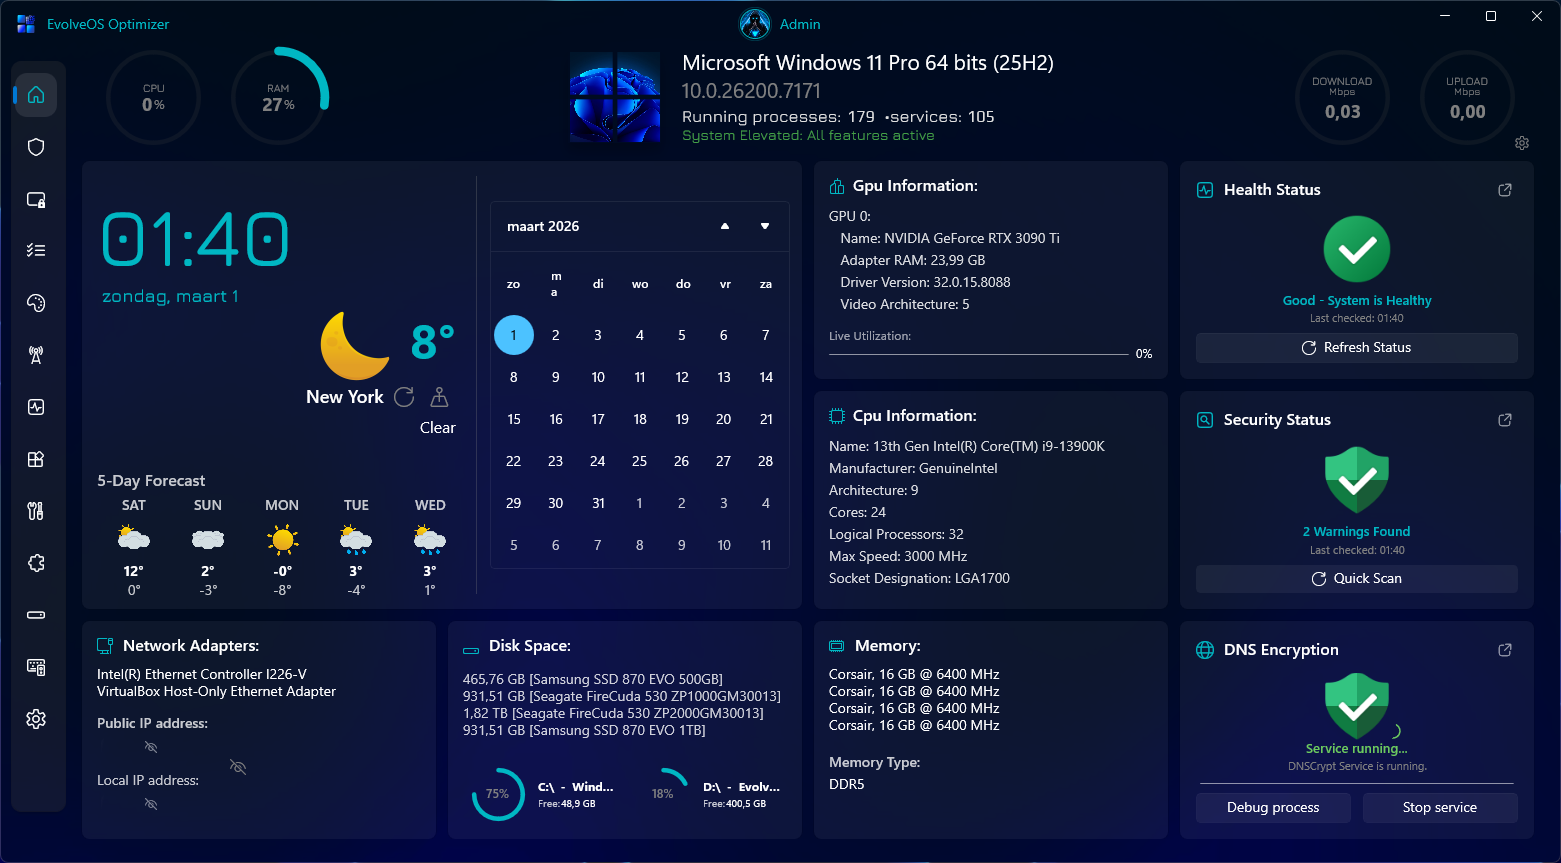
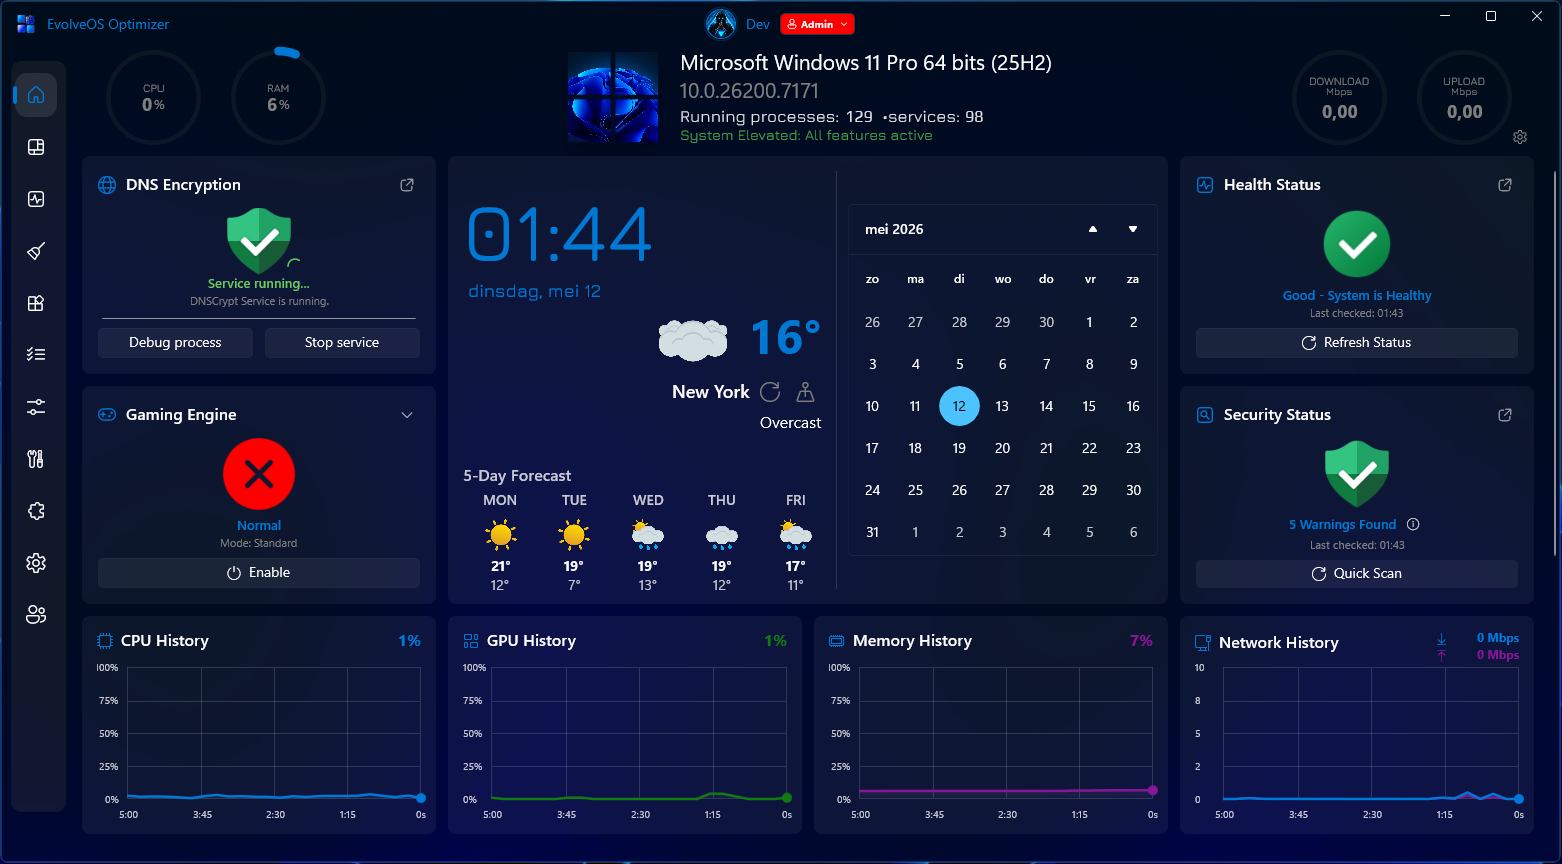
docs (readme): Update key features list and media assets
* Expanded the Key Features section to accurately reflect the latest architectural overhauls, including the Diagnostics Command Center, System Cleaner, and MemoryGuardian.
* Updated application screenshots to showcase the new modern UI components and layouts.
* Replaced the main preview GIF with a high-quality capture of the latest application architecture in action.

diff --git a/README.md b/README.md
@@ -37,24 +37,27 @@ Whether you are actively using it to lock down telemetry and generate custom off
 
 * **Zero-Footprint Architecture:** As a system optimizer, the app itself is engineered to consume as little memory as possible. It utilizes a strict zero-cache navigation model where every page implements a custom `IPurgeable` interface. ViewModels are aggressively disposed, background threads are cancelled, and UI elements are completely purged from memory the moment you navigate away—ensuring perfectly fluent browsing with zero passive memory bloat.
 * **Global Optimization Hotkeys:** Configure custom keyboard shortcuts to instantly flush system memory, clear DNS cache, and wipe temp files at any time. Triggering this directly optimizes the app itself—drastically reducing active memory usage when the dashboard is open, and aggressively trimming its background footprint down to an ultra-light 35-50 MB when hidden in the system tray.
+* **Diagnostics Command Center:** The real-time nerve center of EvolveOS Optimizer. Powered by a custom Neural Analysis Engine, this dynamic dashboard aggregates critical system telemetry, real-time Plug and Play (PnP) hardware events, and network intelligence into a single, thread-safe interface. It runs continuous background tracking even when minimized, filtering out minor system noise to highlight actionable data. It goes beyond passive monitoring by offering contextual administrative elevation, allowing you to instantly execute remediation tasks and system repairs directly from the diagnostic event list.
+* **Live Telemetry & Interactive Graphing:** A high-performance, real-time metrics engine tracking CPU, RAM, Disk I/O, Pagefile, GPU Engine utilization, and dual-band Network speeds. Features a beautifully rendered, interactive history graph with dynamic time scales (ranging from 60 seconds up to 15 minutes) powered by an optimized, 900-point rolling memory buffer.
+* **AI-Driven Stability Scoring & Resource Guardians:** Goes beyond simple error counting. The dashboard features a 24-hour rolling "Stability Score" algorithm that analyzes the severity, frequency, and time-decay of system events and hardware faults, translating raw telemetry into a dynamic, human-readable AI Summary. It includes an active background sentry that monitors RAM and Pagefile saturation, automatically throttling its own UI updates and dispatching localized warnings before a system out-of-memory crash can occur.
+* **Comprehensive Security Dashboard:** Get an instant, accurate mirror of your native Windows Defender states. Actively monitor your Firewall, SmartScreen, BitLocker, Core Isolation, and Account Protection. Includes a custom interactive slider to instantly adjust UAC (User Account Control) consent behaviors, and one-click execution hooks to force malware signature updates or trigger Defender Quick Scans without ever opening the clunky Windows UI.
+* **Neural DNS & Advanced Port Auditor:** Take absolute control over your web routing. Integrated directly into the Command Center, this module features a built-in network security scanner that maps all active TCP/UDP listening sockets to their parent processes, flagging wide-open 0.0.0.0 bindings. Includes a "Deep Hardening" execution hook that violently shuts down vulnerable Windows protocols (like SMBv1/v2/v3 and Port 445) at the registry and firewall level. Features server benchmarking, manual DNS configuration, and strict DoH (DNS over HTTPS) enforcement to prevent ISP snooping and ensure trace-free, encrypted browsing.
+* **Automated Deep Remediation Engine:** Features an arsenal of specialized, one-click auto-fixes for complex Windows issues. Safely unlock and purge corrupted .NET UI caches (requiring Restart Manager integration), repair LUAFV virtualization, stage Secure Boot key enrollments, or instantly reset the Desktop Window Manager (DWM) stack to seamlessly recover from graphical exhaustion and screen flickering without rebooting.
+* **Advanced Memory & Disk Management:** Intelligently flushes the Working Set, System File Cache, Modified Page Lists, and safely clears system caches, DNS, and Windows Update leftovers.
+* **Advanced System Cleaner:** A comprehensive, high-fidelity cleaning engine powered by an OTA-updatable Winapp2.ini database containing over 3,700 definitions. It features fully automated, silent background scheduling and an extensible post-clean orchestrator to automatically execute custom scripts or system maintenance tools (like DISM) immediately after a sweep. Engineered for power users, it supports loading custom databases, includes an intelligent "Conflict Inspector" that leverages the Windows Restart Manager to identify active file locks, and offers deep shell integration to verify target files before deletion. Wrapped in a modern, beautifully localized UI complete with real-time storage heatmaps, a 30-day historical analytics dashboard, and a strict safety-first logic layer that protects sensitive system categories by default.
 * **Automated Background Autopilot:** A silent background engine that tracks system resources. Use custom sliders in the Maintenance menu to set specific memory usage percentages or time intervals (in hours) to trigger fully automated, background memory optimization without lifting a finger.
 * **3-Tier Context-Aware Notification Engine:** A custom-built, queue-based notification manager that intelligently routes alerts based on your exact window state. If the dashboard is active, it delivers beautifully animated, severity-colored in-app banners. If the app is minimized, it triggers a custom, non-intrusive overlay notification. If running silently in the system tray, it seamlessly delegates to Windows Native Adaptive Toasts to keep you informed without interrupting your workflow.
 * **Secure Password Manager & Generator:** Includes a fully offline, AES-encrypted password manager backed by a secure local SQL database. Safely store, categorize, and manage credentials with one-click copy and reveal toggles. Features a standalone, advanced password generator accessible system-wide via custom global hotkeys.
 * **Military-Grade File & Folder Encryptor:** Securely encrypt and decrypt any file, image, executable, or entire directory using AES-256-GCM encryption. Engineered with raw byte processing to prevent binary data corruption and on-the-fly background ZIP compression for folders. Heavy cryptographic tasks are safely offloaded to background threads, triggering a global UI lock and modern visual overlay to prevent interruption.
 * **Custom Windows 11 ISO Builder:** This feature enables the creation of fully debloated, optimized installation media using a sophisticated offline servicing engine. It automates the generation of unattended setups to bypass strict Windows 11 hardware requirements (TPM, CPU, RAM), forces local account creation, and strips away over 50+ bloatware packages like Edge, OneDrive, Copilot and Cortana. By injecting hundreds of custom registry tweaks, removing legacy system components, and pre-tuning over 100 system services directly into the WIM/ESD image, it ensures a high-performance, privacy-focused Windows experience from the very first boot.
 * **Advanced User Authentication:** Features a robust, multi-user accounts management system powered by an auto-installing SQL LocalDB backend. Keep your application access and encrypted vaults entirely private and completely disconnected from the cloud.
-* **Dynamic Hardware Dashboard:** A beautifully animated dashboard featuring real-time history line graphs for CPU, RAM, GPU, and dual-line Network speeds. Fully interactive with smooth scale animations on hover and a customizable global timeframe setting.
 * **Built-in Process Manager:** Includes a dedicated, real-time process manager to monitor memory usage (MB), thread counts, and PIDs. Easily search, sort, and forcefully terminate resource-heavy applications directly within the app.
-* **Security Center Dashboard:** Provides a comprehensive overview of system security, actively monitoring Firewall, SmartScreen, BitLocker, Core Isolation, Account Protection, and UAC levels. Accurately mirrors native Windows Defender states and includes a custom slider to instantly adjust UAC consent behaviors.
-* **One-Click Defender Actions:** Bypass the standard Windows UI to instantly trigger Windows Defender Quick Scans or force malware signature updates directly via PowerShell integration.
 * **Custom Script Engine:** A dedicated dynamic scripts hub allows users to load, refresh, and execute custom scripts individually or in bulk via a multi-select mode.
-* **Advanced Memory & Disk Management:** Intelligently flushes the Working Set, System File Cache, Modified Page Lists, and safely clears system caches, DNS, and Windows Update leftovers.
 * **Ultimate Privacy Shield:** Deep registry tweaks to completely disable Windows telemetry, diagnostic data collection, targeted advertising, and intrusive AI features like Copilot and Recall.
 * **Bloatware Decimation:** Cleanly force-uninstall pre-packaged UWP apps, including deeply embedded software like Microsoft Edge, OneDrive, Cortana, and third-party sponsored bloatware.
 * **Integrated WinGet App Store:** A powerful, fully GUI-driven software center powered by the Windows Package Manager. Easily search, install, update, and uninstall thousands of applications without ever opening a terminal. Features an advanced context menu offering granular control for power users, including interactive visual setups, machine-wide deployments, silent administrative executions, and the ability to safely bypass hash integrity checks.
 * **Advanced Startup & Boot Manager:** Take absolute control over your Windows boot sequence. Easily detect, toggle, or permanently delete auto-start applications from the registry and startup folders. Features an innovative "Cycle-Click" delay system to stagger application launches (15s–60s) preventing CPU "thundering herd" spikes during boot. Includes Authenticode digital signature verification to spot unverified publishers, and supports saving complex configurations into switchable Smart Profiles (Gaming/Work).
 * **Active Startup Monitor:** A silent background sentinel that actively guards your registry and boot folders. It instantly triggers a system-wide alert if a new application stealthily adds itself to your startup sequence without your permission, giving you the immediate power to block it.
-* **Network & DNS Optimizer:** Built-in DNS changer that automatically pings and finds the fastest servers. Features deep DNSCrypt integration to fully encrypt your internet routing, prevent ISP snooping, and enforce strict zero-log policies for completely invisible, trace-free web browsing.
 * **Advanced Service & Defender Control:** Safely suspend unnecessary background services (Xbox, Hyper-V, Maps) to free up resources. Features a powerful, ACL-level bypass to completely disable or restore Windows Defender via NSudo.
 * **System & UI Customization:** Fine-tune Windows Explorer, restore classic context menus, adjust keyboard/mouse input delays, and strip away resource-heavy visual effects.
 * **Group Policy Manager:** Includes a dedicated scanner to detect, review, and easily revert customized or corrupted Windows Group Policies back to default OS behavior.
@@ -62,9 +65,21 @@ Whether you are actively using it to lock down telemetry and generate custom off
 * **Portable Tweak Profiles:** Export your highly customized Windows optimization states—including privacy toggles, services, and network tweaks—into easily deployable JSON files. Instantly import pre-configured profiles to set up new machines in seconds, or share your ultimate gaming/work configurations with the community.
 * **App Preferences Management:** Fully decouple your application settings from your OS tweaks. Safely reset, export, or import your custom UI themes, dashboard layouts, and automated background behavior configurations to keep your EvolveOS experience consistent across different installations.
 * **Gaming Mode (Smart Sniper Optimization):** Instantly shifts your system into high gear with a single click. Intelligently suspends non-essential background tasks, over 80 Windows services, and scheduled tasks while strictly protecting a "Do Not Touch" whitelist of essential gaming companions (Steam, Discord, OBS, Anti-Cheats). Automatically unleashes GPU power states, unlocks CPU core affinity for games, and seamlessly restores your system to its exact original state when disabled.
-* **Automated Background Monitoring:** A silent background engine that tracks RAM and Disk usage, alerting you only when critical thresholds are reached.
-* **System Tray Integration:** Run silently in the background with an ultra-light footprint, featuring a quick-access context menu to instantly jump to key pages or trigger optimizations directly from the taskbar without opening the full UI.
+* **System Tray Integration & Sparklines:** Run silently in the background with an ultra-light footprint. The background telemetry engine continuously generates highly efficient "sparkline" mini-graphs for your CPU, RAM, Disk, and GPU, rendering them directly into your Windows System Tray for instant, zero-click visual feedback. Features a quick-access context menu to instantly jump to key pages or trigger optimizations directly from the taskbar without opening the full UI.
 * **Portable Execution:** Runs as a standalone, unpacked single executable. No bulky installers or registry bloat.
+
+---
+
+### 🧠 Under the Hood: The Neural Analysis Engine (Diagnostics)
+Traditional monitoring tools and task managers are passive—they overwhelm you with raw data, cluttered event logs, and leave you to figure out what is actually wrong. EvolveOS Optimizer flips this paradigm by acting as an active, intelligent sentry.
+Here is how the underlying Neural Analysis Engine processes, protects, and repairs your system in real-time:
+
+* **The Event Log Miner (Signal vs. Noise):** Windows generates thousands of routine telemetry logs every hour. The LiveEventWatcherHelper hooks directly into the OS event pipeline to silently intercept this data, aggressively filtering out normal system noise. It only bubbles up actionable intelligence—like unexpected application crashes, DWM exhaustion, or security bypasses. This data is fed into a 24-hour rolling "Stability Score" algorithm, which the AI Engine translates into a human-readable threat summary.
+* **Predictive MemoryGuardian:** While other tools react to out-of-memory errors, the Neural Engine anticipates them. By querying high-performance WMI counters that perfectly mirror Task Manager, it tracks RAM and Pagefile saturation. If the app detects impending memory exhaustion, it triggers the MemoryGuardian to dynamically clamp the app's footprint down to 150MB (Efficiency Mode) and utilizes native Win32 APIs (EmptyWorkingSet) to force-reclaim unmanaged UI and DirectX memory before a system crash occurs.
+* **Deep Security & Defender Sync:** The engine bypasses the clunky Windows Settings UI to query native Defender APIs directly. It builds an exact, real-time mirror of your system's defensive posture—tracking Firewall states, Core Isolation, BitLocker, LSA Protection, and Smart App Control. If a vulnerability is found, the engine utilizes contextual administrative elevation to instantly deploy automated fixes, allowing you to force signature updates or adjust UAC consent behaviors with a single click.
+* **Active Hardware & Driver Interrogation:** Instead of just reading a static list of devices, the engine utilizes real-time WMI telemetry (Win32_DeviceChangeEvent) to monitor the Plug and Play (PnP) bus. If a driver stack crashes or a component fails, the integrated RemediationEngine intercepts the fault and can securely re-initialize the specific hardware driver stack to restore functionality without requiring a full system reboot.
+* **Neural DNS & Port Auditor:** The engine actively audits your network routing for critical vulnerabilities. It performs high-speed socket mapping to detect dangerously exposed 0.0.0.0 bindings, tracing them back to their exact parent executables. It natively orchestrates DNSCrypt to enforce system-wide DNS-over-HTTPS (DoH) for total ISP blindness, and features a "Deep Hardening" sequence that aggressively shuts down legacy protocols (like SMBv1 and Port 445) at both the registry and firewall levels.
+* **Automated Remediation Execution:** When the engine detects a critical fault, it doesn't just alert you—it offers a weaponized auto-fix. Whether it's unlocking and purging corrupted .NET UI caches using the Windows Restart Manager, repairing LUAFV virtualization, or seamlessly resetting a crashed Desktop Window Manager (DWM) stack, the engine deploys precise registry and service-level repairs to keep you running.
 
 ---
 
@@ -111,12 +126,12 @@ Here is how the underlying `GamingModeHelper` safely pushes your system to its l
 
 ## 📸 Screenshots
 
-| Dashboard | Maintenance | Security |
+| Dashboard | Command Center | Command Center Tools |
 |:---:|:---:|:---:|
-| <img src="https://github.com/EvolveOS-Software/EvolveOS_Optimizer_V3.0/blob/master-net10.0/.github/Screenshots/HomePage.png" alt="EvolveOS Optimizer Dashboard" width="300"/> | <img src="https://github.com/EvolveOS-Software/EvolveOS_Optimizer_V3.0/blob/master-net10.0/.github/Screenshots/MaintenancePage.png" alt="EvolveOS Security Maintenance" width="300"/> | <img src="https://github.com/EvolveOS-Software/EvolveOS_Optimizer_V3.0/blob/master-net10.0/.github/Screenshots/SecurityPage.png" alt="EvolveOS Security Center" width="300"/> |
-| Dns Changer | Settings | Other |
+| <img src="https://github.com/EvolveOS-Software/EvolveOS_Optimizer_V3.0/blob/master-net10.0/.github/Screenshots/HomePage.png" alt="EvolveOS Optimizer Dashboard" width="300"/> | <img src="https://github.com/EvolveOS-Software/EvolveOS_Optimizer_V3.0/blob/master-net10.0/.github/Screenshots/Diagnostics_1.png" alt="EvolveOS Command Center" width="300"/> | <img src="https://github.com/EvolveOS-Software/EvolveOS_Optimizer_V3.0/blob/master-net10.0/.github/Screenshots/Diagnostics_2.png" alt="EvolveOS Command Center Tools" width="300"/> |
+| Process Manager | Startup Apps | System Cleaner |
 |:---:|:---:|:---:|
- <img src="https://github.com/EvolveOS-Software/EvolveOS_Optimizer_V3.0/blob/master-net10.0/.github/Screenshots/DnsPage.png" alt="EvolveOS Optimizer Dashboard" width="300"/> | <img src="https://github.com/EvolveOS-Software/EvolveOS_Optimizer_V3.0/blob/master-net10.0/.github/Screenshots/SettingsPage.png" alt="EvolveOS Security Maintenance" width="300"/> | <img src="https://github.com/EvolveOS-Software/EvolveOS_Optimizer_V3.0/blob/master-net10.0/.github/Screenshots/SettingsPage.png" alt="EvolveOS Security Center" width="300"/> |
+ <img src="https://github.com/EvolveOS-Software/EvolveOS_Optimizer_V3.0/blob/master-net10.0/.github/Screenshots/ProcessManagerPage.png" alt="EvolveOS Process Manager" width="300"/> | <img src="https://github.com/EvolveOS-Software/EvolveOS_Optimizer_V3.0/blob/master-net10.0/.github/Screenshots/StartupManagerPage.png" alt="EvolveOS App Startup Manager" width="300"/> | <img src="https://github.com/EvolveOS-Software/EvolveOS_Optimizer_V3.0/blob/master-net10.0/.github/Screenshots/SystemCleanerPage.png" alt="EvolveOS System Cleaner" width="300"/> |
 ---
 
 ## 🚀 Installation & Usage
